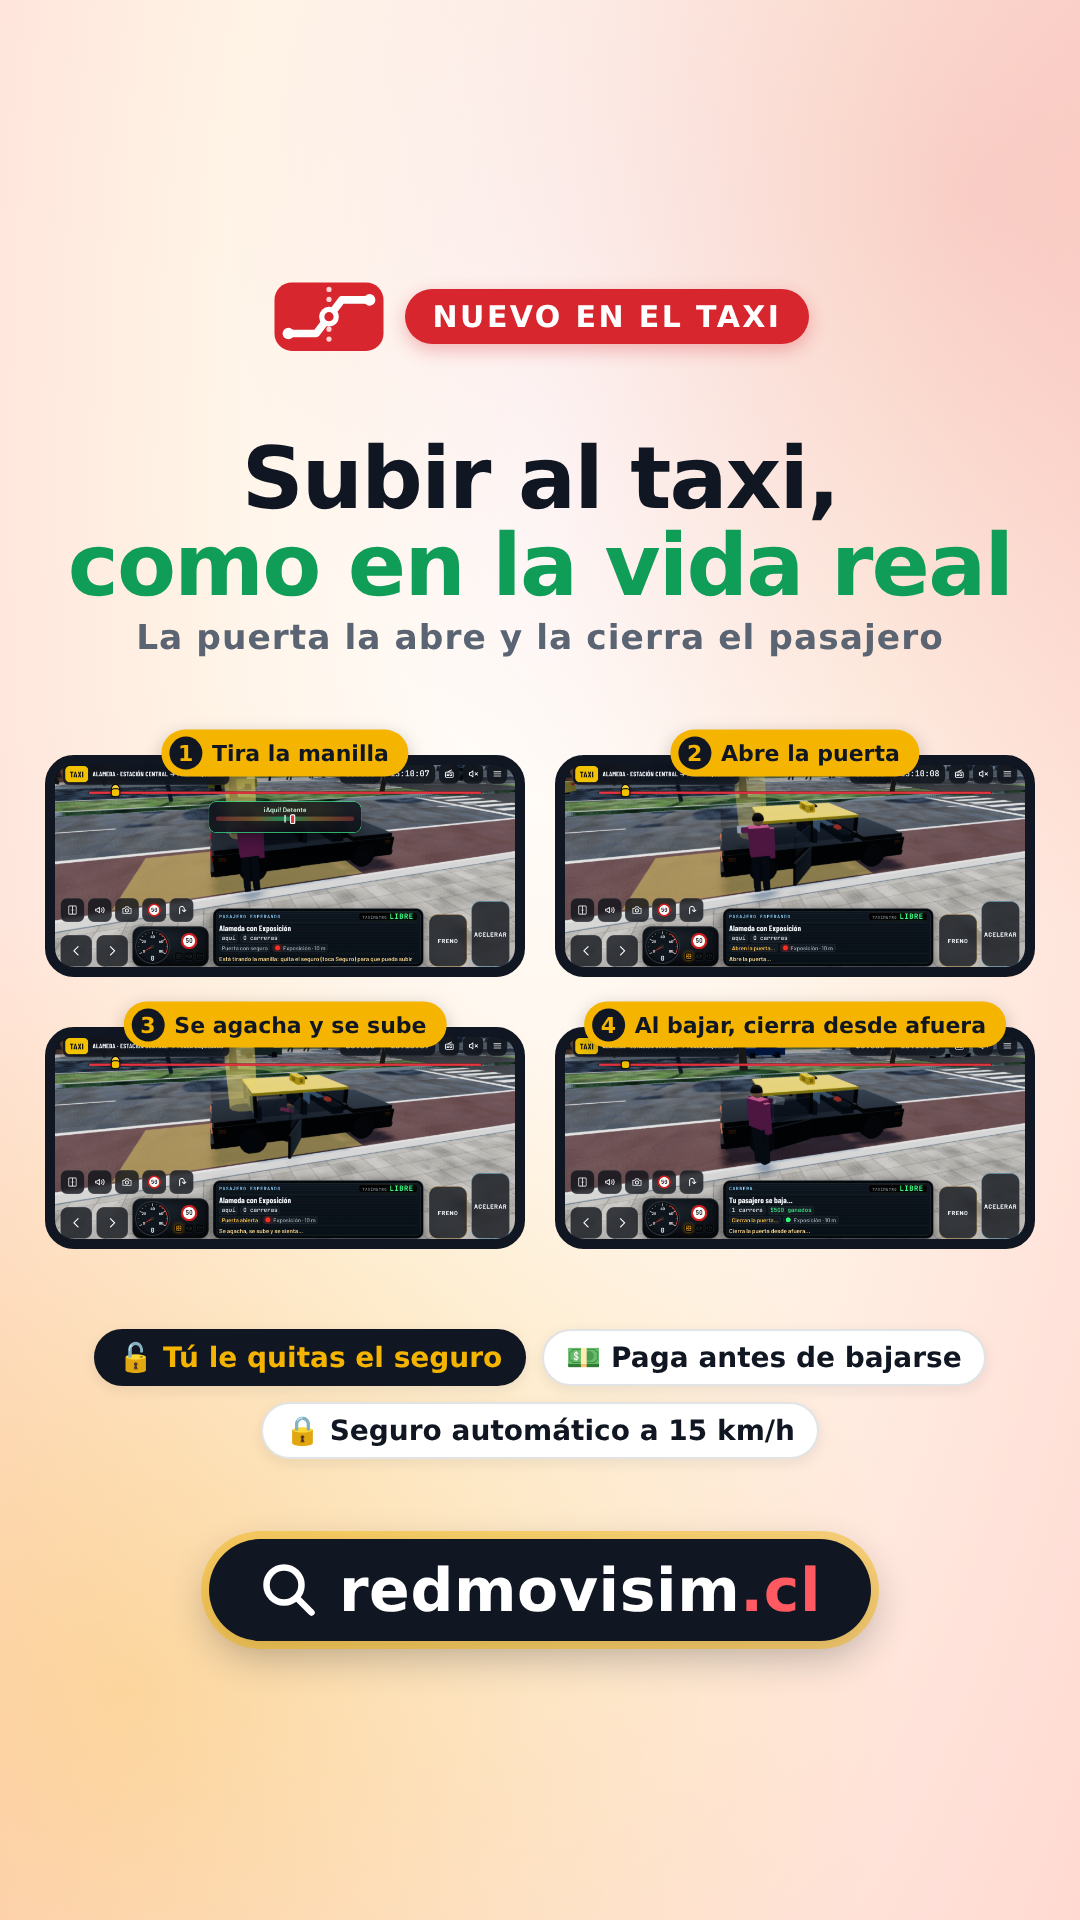
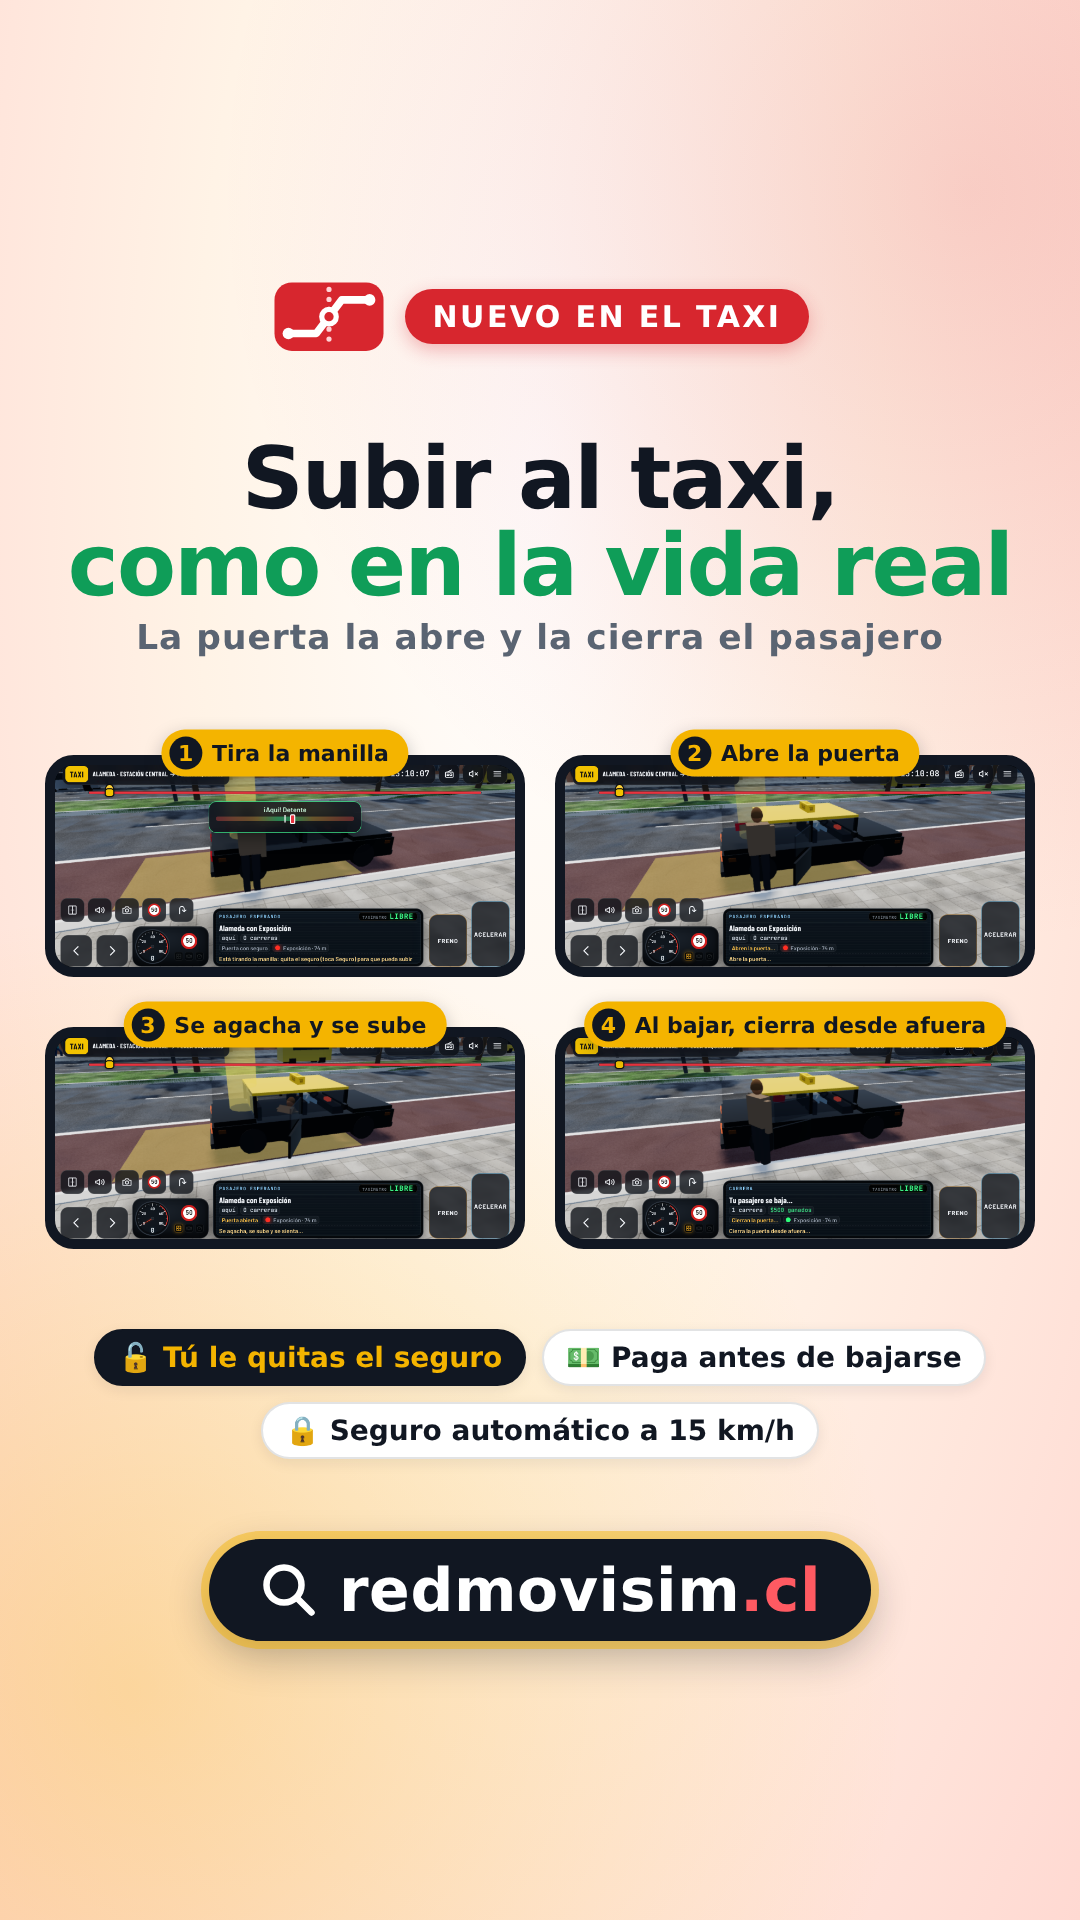
2.20.3 · A nadie se le asoma el pelo por el techo del taxi
El pasajero de atrás y el conductor se sientan a la altura justa para que
la cabeza quede bajo el techo (taxiSitY). Capturas del post rehechas.

Claude-Session: https://claude.ai/code/session_01XEKfgi9xAf2TJMPJJn8Xpn

diff --git a/js/bus/busPeople.js b/js/bus/busPeople.js
@@ -41,6 +41,7 @@ const LINE_GAP = 0.78;           // m entre una persona y la siguiente en la fil
 const SIDEWALK_Y = 0.16, FLOOR_Y = 1.02;
 const DOORS = { front: 1.25, mid: 5.6, rear: 9.95 };   // z de las puertas en el bus (origen = frente)
 const W2 = BUS_WIDTH / 2;
+const TAXI_HEADROOM = 1.32;      // m: altura máxima de la cabeza dentro del taxi (el techo va de 1,35 a 1,41)
 const V = (x, y, z) => new THREE.Vector3(x, y, z);
 const wrapAngle = (a) => Math.atan2(Math.sin(a), Math.cos(a));
 /** 1.20 · Peatones: cuántos y por dónde caminan (x de la vereda del bus y de la vereda de enfrente). */
@@ -107,7 +108,7 @@ export class BusPeople {
     d.mesh.parts.filter(x => x.obj.parent === d.mesh.armL || x.obj.parent === d.mesh.armR).forEach(x => x.color.setHex(0x9fc3e0));
     d.pose = "drive";
     d.local = true;
-    if (taxi) d.root.position.set(taxi.driver.x, taxi.driver.y - d.mesh.legLen, taxi.driver.z);
+    if (taxi) d.root.position.set(taxi.driver.x, this.taxiSitY(d, taxi.driver.y), taxi.driver.z);
     else d.root.position.set(-0.75, FLOOR_Y + 0.5 - d.mesh.legLen, 1.32);
     d.root.rotation.y = Math.PI;
     cabin.add(d.root);
@@ -139,13 +140,26 @@ export class BusPeople {
     if (!on) return;
     const p = this.person(kind);
     const r = this.taxi.rider;
-    p.root.position.set(r.x, r.y - p.mesh.legLen, r.z);
+    p.root.position.set(r.x, this.taxiSitY(p, r.y), r.z);
     p.root.rotation.y = Math.PI;
     p.pose = "sit";
     p.local = true;
     this.cabin.add(p.root);
     this.extras.push(p);
     this.rider = p;
+  }
+
+  /**
+   * 2.20.3 · Altura del origen (los pies) de alguien sentado en el taxi. Con la cadera en el asiento (seatY) a los más
+   * altos se les asomaba la cabeza por el techo (abajo a 1,35 m): se hunden en el asiento lo justo para que el pelo
+   * quede bajo el techo (las piernas no se ven, van tras la puerta).
+   */
+  taxiSitY(p, seatY) {
+    const m = p.mesh, s = p.scale ?? 1;
+    const hair = m.parts.find(x => x.kind === "hair")?.obj;
+    const above = hair ? (hair.position.y + hair.scale.y - m.legLen) * s : 0.95 * s;     // del asiento a la punta del pelo
+    const hip = Math.max(0.34, Math.min(seatY, TAXI_HEADROOM - above));
+    return hip - m.legLen * s;
   }
 
   /* 2.20 · Del espacio recto de la calle (x, z = −s de la ida) a la carrocería del taxi y de vuelta. Con el taxi
@@ -239,7 +253,7 @@ export class BusPeople {
           p.path = [];
           p.root.position.copy(door());
           p.duck = true;
-          this.timedPath(p, [gap(-0.3), V(r.x + 0.15, r.y - p.mesh.legLen * 0.95, r.z), V(r.x, r.y - p.mesh.legLen, r.z)], 1.6, () => {
+          this.timedPath(p, [gap(-0.3), V(r.x + 0.15, r.y - p.mesh.legLen * 0.95, r.z), V(r.x, this.taxiSitY(p, r.y), r.z)], 1.6, () => {
             p.duck = false;
             p.pose = "sit";
             p.targetYaw = Math.PI;
@@ -263,7 +277,7 @@ export class BusPeople {
       p.sitReach = false;
       p.duck = true;
       p.pose = "duck";                                                       // (sentado, move() lo dejaría a la altura del piso del bus)
-      p.root.position.set(r.x, r.y - p.mesh.legLen, r.z);
+      p.root.position.set(r.x, this.taxiSitY(p, r.y), r.z);
       this.timedPath(p, [V(r.x + 0.2, r.y - p.mesh.legLen * 0.95, r.z), gap(-0.3), door()], 1.5, () => {
         p.duck = false;
         p.targetYaw = -2.6;                                                  // hacia la puerta abierta, para cerrarla

diff --git a/index.html b/index.html
@@ -103,7 +103,7 @@
       <div class="home-brand">
         <img class="home-logo" src="logo.svg" alt="">
         <h1>Red<span>Movi</span>Sim</h1>
-        <span class="start-ver">v2.20.2</span>
+        <span class="start-ver">v2.20.3</span>
       </div>
       <div class="home-bar-tools">
         <button class="home-clock" id="clockNow" type="button" aria-live="polite" title="Ver las tarifas según el horario">

diff --git a/sw.js b/sw.js
@@ -14,7 +14,7 @@
    sin conexión.
    ========================================================================== */
 
-const CACHE = "metrosim-v2.20.2";
+const CACHE = "metrosim-v2.20.3";
 const CDN = ["cdn.jsdelivr.net", "unpkg.com"];
 
 /** Lo mínimo para que la portada abra sin conexión aunque no se haya jugado. */

diff --git a/js/config.js b/js/config.js
@@ -26,7 +26,7 @@
    y curva de demanda horaria de un día real de Santiago.
    ========================================================================== */
 
-export const VERSION = "2.20.2";
+export const VERSION = "2.20.3";
 
 /* ---------- Colores oficiales de las líneas ---------- */
 export const LINE_COLORS = {

diff --git a/README.md b/README.md
@@ -144,6 +144,9 @@ trenes de los dos motores quedan a ~1 m (mediana).
 - **2.20.2 · El pasajero que sube es el mismo que baja.** Al cerrar la puerta aparecía otra persona haciendo señas
   junto al taxi y era ella la que después se bajaba. Además, al agacharse para entrar o salir ya no se le asoma la
   cabeza por el techo. Imágenes del post de Instagram en `post-taxi-puerta/`.
+- **2.20.3 · A nadie se le asoma el pelo por el techo del taxi.** Sentados, a los más altos (el pasajero de atrás y
+  el conductor) se les veía la cabeza o el pelo encima del techo amarillo: ahora cada uno se sienta a la altura justa
+  para quedar bajo el techo (`busPeople.js · taxiSitY`). Las capturas del post de Instagram se rehicieron sin ese detalle.
 
 ## Versión 2.19 · El mar y los cerros de Valparaíso
 
